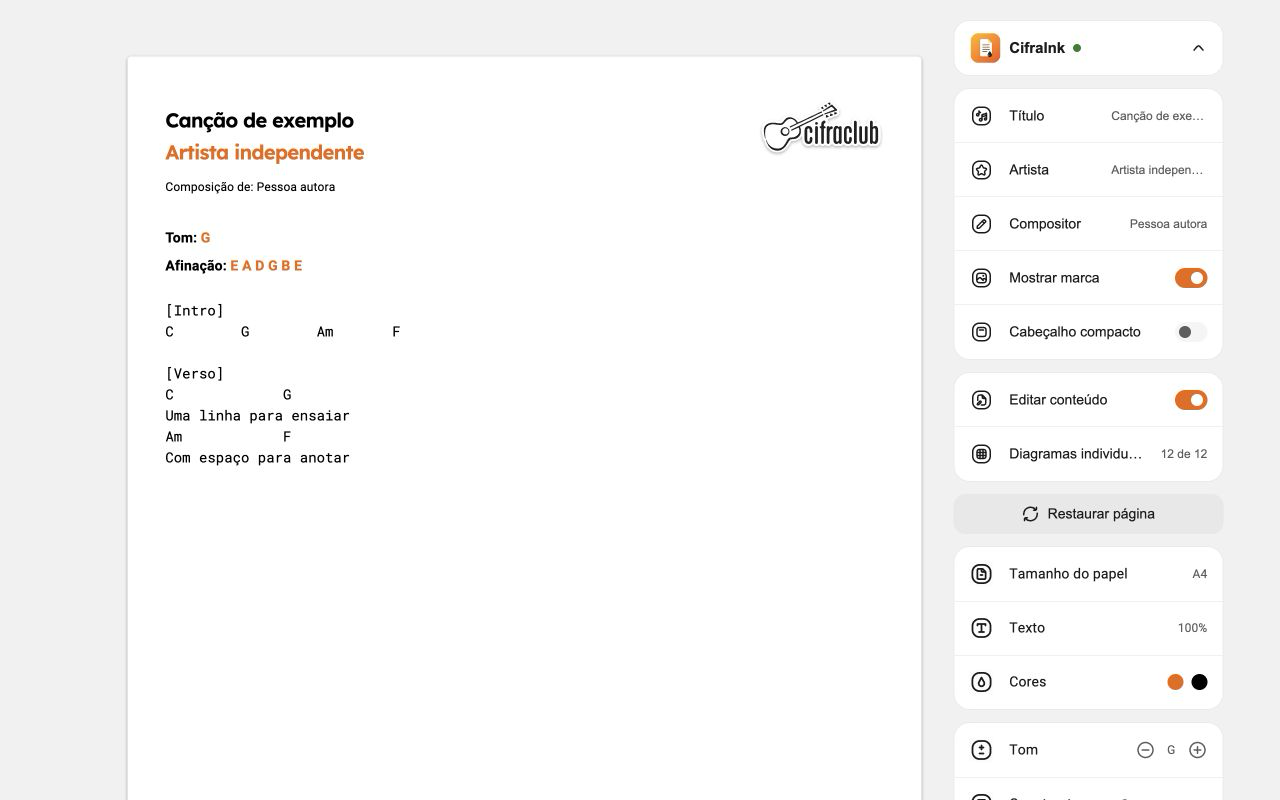
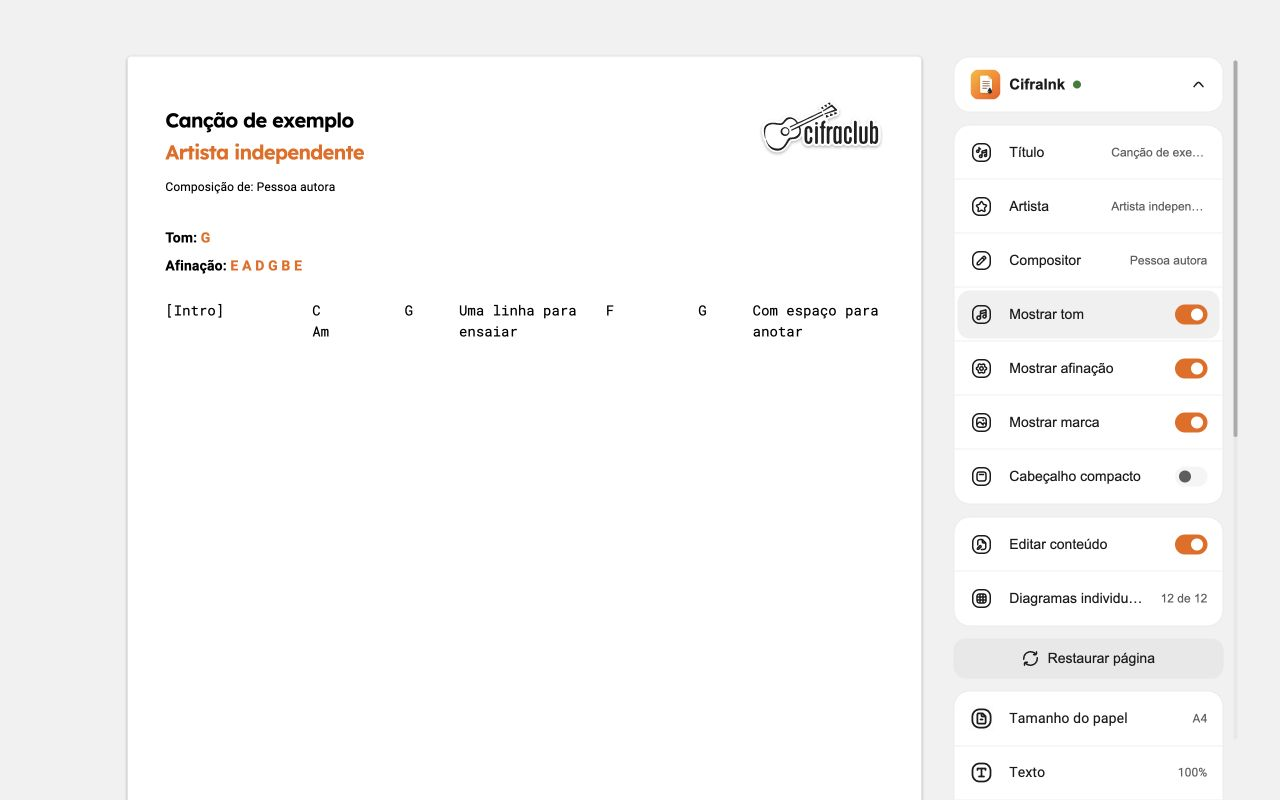
chore: prepare 0.1.1 release materials

diff --git a/docs/RELEASE.md b/docs/RELEASE.md
@@ -1,7 +1,8 @@
 # Procedimento de release
 
-Este documento descreve a publicação manual do CifraInk na Chrome Web Store. A versão candidata
-atual é `0.1.1`, pública, gratuita, global e em português do Brasil.
+Este documento descreve a publicação manual do CifraInk na Chrome Web Store. A versão pública atual
+é `0.1.0`; a candidata `0.1.1` será uma atualização pública, gratuita, global e em português do
+Brasil.
 
 ## 1. Preparação
 
@@ -44,7 +45,7 @@ arquivo depois dessa aprovação.
 Checksum aprovado para o pacote candidato `0.1.1` em 2026-08-27:
 
 ```text
[2 lines of base64/hex data omitted]
 ```
 
 ## 4. Teste do pacote final
@@ -55,19 +56,23 @@ Checksum aprovado para o pacote candidato `0.1.1` em 2026-08-27:
    **Carregar sem compactação**.
 4. Não carregar `.output/chrome-mv3`; o objetivo é validar exatamente o conteúdo do ZIP.
 5. Abrir a URL de referência indicada em `docs/STORE_LISTING.md` e verificar:
-   - inicialização e painel único;
+   - inicialização sem recarregar a página e painel único;
    - edição do título e do compositor, incluindo espaços consecutivos;
+   - visibilidade de tom, afinação e marca, além do modo compacto;
    - edição do conteúdo musical e undo/redo nativo;
-   - visibilidade de um diagrama individual;
+   - edição do nome de um diagrama;
+   - controles preto e laranja, preservando o estado das marcações ao reexibir o diagrama;
    - restauração integral;
    - fallback sem overflow em viewport de 360 px;
    - impressão ou PDF sem o painel CifraInk.
+6. Repetir nome, marcações, visibilidade e restauração em páginas com diagramas de viola caipira,
+   ukulele e cavaco.
 
 Registrar navegador, sistema, commit, checksum e resultado. Restaurar a página antes de encerrar.
 
 ## 5. Chrome Web Store
 
-1. Se a versão anterior ainda estiver em análise, cancelar essa análise antes de enviar a correção.
+1. Manter a versão pública `0.1.0` disponível durante a revisão da atualização.
 2. Usar os campos definitivos de `docs/STORE_LISTING.md`.
 3. Enviar o ZIP aprovado da versão `0.1.1` e os PNGs de `store-assets/`.
 4. Preencher **Privacy practices** de acordo com `docs/SECURITY_REVIEW.md`.

diff --git a/docs/STORE_LISTING.md b/docs/STORE_LISTING.md
@@ -1,6 +1,6 @@
 # Chrome Web Store — listagem 0.1.1
 
-Campos definitivos para a primeira submissão pública do CifraInk.
+Campos definitivos para a atualização pública `0.1.1` do CifraInk.
 
 ## Informações do produto
 
@@ -28,9 +28,11 @@ Club.
 Com o CifraInk, você pode:
 
 - editar título, artista e compositor;
-- ocultar itens do cabeçalho e usar um modo compacto;
+- ocultar itens do cabeçalho, tom, afinação e marca, além de usar um modo compacto;
 - editar letra e acordes preservando espaços e quebras de linha;
-- mostrar ou ocultar diagramas individualmente;
+- mostrar ou ocultar diagramas de violão, viola caipira, ukulele e cavaco individualmente;
+- editar o nome impresso de cada diagrama;
+- ocultar posições, pestanas, estados das cordas e casa inicial sem remover a grade;
 - restaurar a página ao estado original da sessão.
 
 Tudo acontece localmente no navegador. O CifraInk não cria conta, não coleta dados, não possui
@@ -57,12 +59,21 @@ Não são necessárias credenciais.
 3. Confirme o painel CifraInk no início da coluna de controles.
 4. Abra os editores de título, artista ou compositor e digite um valor de teste.
 5. Ative **Editar conteúdo** e altere um trecho temporário da cifra.
-6. Abra **Diagramas individuais** e alterne um item.
-7. Use **Restaurar página** e confirme a volta do conteúdo e da visibilidade originais.
-8. Abra a impressão e confirme que o painel CifraInk não aparece.
+6. Alterne **Mostrar tom** ou **Mostrar afinação**.
+7. Abra **Diagramas individuais**, edite um nome e alterne os controles preto e laranja.
+8. Use **Restaurar página** e confirme a volta dos textos, marcações e visibilidades originais.
+9. Abra a impressão e confirme que o painel CifraInk não aparece.
 
 Os dados visíveis da página são acessados e modificados somente no dispositivo para entregar essas
 ações. Nada é coletado, retido ou transmitido.
+
+## Novidades da versão 0.1.1
+
+- inicialização mais confiável após o carregamento da página;
+- controles para tom e afinação impressos;
+- diagramas de violão, viola caipira, ukulele e cavaco;
+- edição do nome impresso e controle das marcações internas de cada diagrama;
+- refinamentos visuais e de espaçamento alinhados aos controles nativos.
 
 ## Materiais
 

diff --git a/README.md b/README.md
@@ -9,10 +9,12 @@ O CifraInk é um projeto independente e não é afiliado, associado nem endossad
 ## Recursos
 
 - edição de título, artista e compositor;
-- visibilidade individual dos itens do cabeçalho e da marca;
+- visibilidade individual dos itens do cabeçalho, tom, afinação e marca;
 - modo de cabeçalho compacto;
 - edição direta de letra e acordes nos blocos reconhecidos;
-- visibilidade individual dos diagramas;
+- visibilidade individual dos diagramas de violão, viola caipira, ukulele e cavaco;
+- edição do nome impresso dos diagramas;
+- controle conjunto de posições, pestanas, estados das cordas e casa inicial;
 - restauração exata do estado encontrado ao carregar a página;
 - painel acessível, recolhível e oculto durante a impressão.
 
@@ -35,6 +37,7 @@ O painel acompanha as ferramentas da página de impressão sem aparecer no docum
 - Google Chrome 129 ou mais recente;
 - páginas HTTPS do Cifra Club com endereço no formato
   `https://www.cifraclub.com.br/<cifra>/imprimir.html`;
+- diagramas de violão, viola caipira, ukulele e cavaco quando presentes;
 - interface em português do Brasil.
 
 A extensão depende da estrutura atual da página de impressão. Se o site mudar, um recurso opcional
